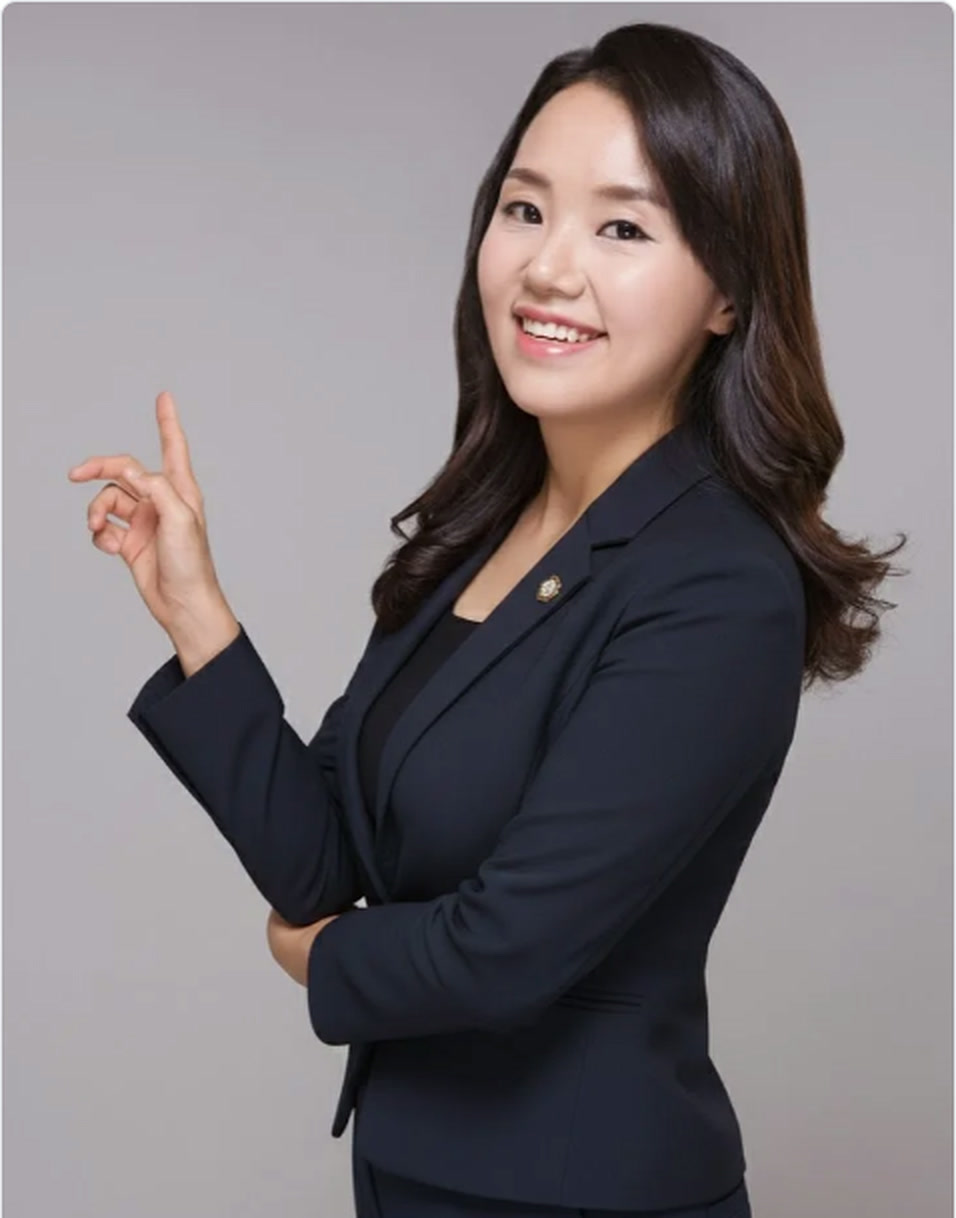
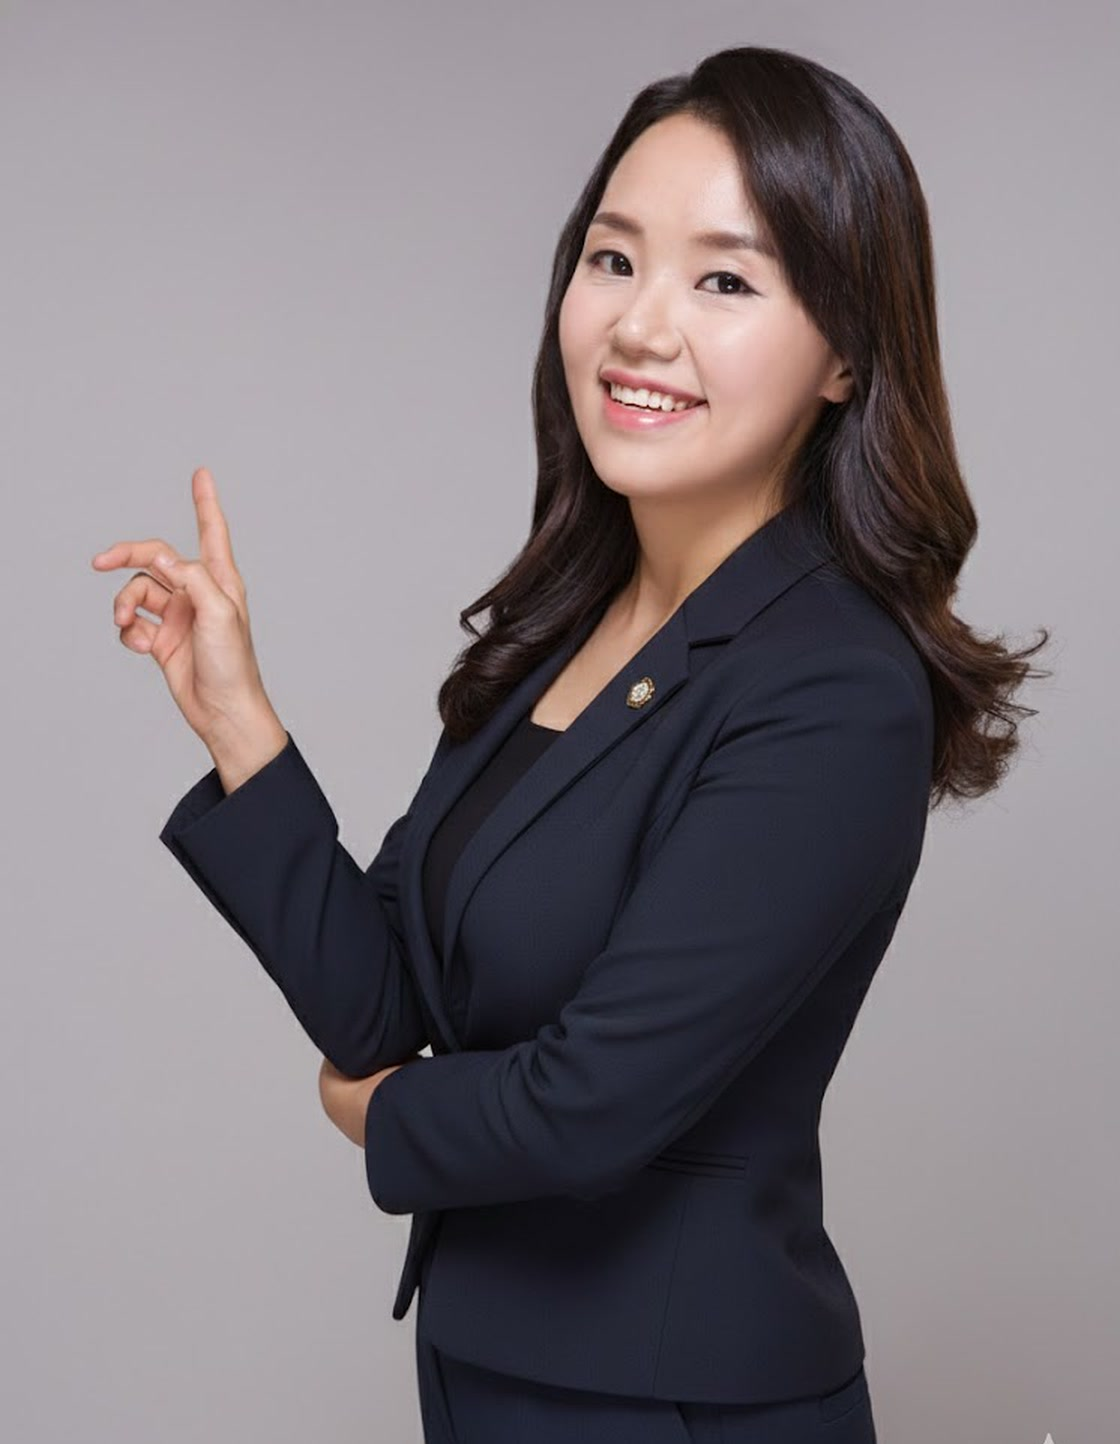
P2 + 카톡 상담: 변호사 실명·약력·고화질 사진 + 카카오톡 채널 연동
- 히어로 인물 카드에 실명 '김창희 변호사 · 법률사무소 청송 대표 · 회생·파산 전문'
- 공식 고화질 프로필(747→1120px, 워터마크 제거)로 attorney.jpg 교체
- 카카오톡 상담 버튼: 히어로(진단시작과 2대 CTA) + 결과 상담폼(전화 대신 카톡) → pf.kakao.com/_zkzIX
- 결과 상담폼에 김창희 변호사 약력(부산지방변호사회 재무이사·동아대 법전원 겸임교수) 신뢰 블록
- 신뢰 카드 '전문 변호사' → '김창희 변호사 직접 상담'

diff --git a/simulation-form.js b/simulation-form.js
@@ -756,12 +756,19 @@ class SimulationForm extends HTMLElement {
                 </div>
                 <div style="background:#f8f9fa; border-radius:10px; padding:1rem; text-align:center;">
                     <div style="margin-bottom:0.4rem; color:#0f5b54; display:flex; justify-content:center;"><svg xmlns="http://www.w3.org/2000/svg" width="24" height="24" viewBox="0 0 24 24" fill="none" stroke="currentColor" stroke-width="1.75" stroke-linecap="round" stroke-linejoin="round"><path d="m16 16 3-8 3 8c-.87.65-1.92 1-3 1s-2.13-.35-3-1Z"/><path d="m2 16 3-8 3 8c-.87.65-1.92 1-3 1s-2.13-.35-3-1Z"/><path d="M7 21h10"/><path d="M12 3v18"/><path d="M3 7h2c2 0 5-1 7-2 2 1 5 2 7 2h2"/></svg></div>
-                    <p style="font-size:0.8rem; color:#555; margin:0;">전문 변호사 직접 상담</p>
+                    <p style="font-size:0.8rem; color:#555; margin:0;">김창희 변호사 직접 상담</p>
                 </div>
             </div>
             <div class="consultation-form" id="consultation-form-section">
                 <h4>전문가 무료 상담 신청 (선택)</h4>
                 <p class="form-desc">상담을 원하시면 아래 정보를 입력해주세요. 입력하지 않아도 진단 결과는 유지됩니다.</p>
+                <div style="display:flex; align-items:center; gap:0.8rem; padding:0.9rem 1rem; background:#fff; border:1px solid #cfe0dc; border-radius:10px; margin-bottom:1.25rem; text-align:left;">
+                    <span style="display:flex; flex-shrink:0; color:#0f5b54;"><svg xmlns="http://www.w3.org/2000/svg" width="22" height="22" viewBox="0 0 24 24" fill="none" stroke="currentColor" stroke-width="1.75" stroke-linecap="round" stroke-linejoin="round"><path d="m16 16 3-8 3 8c-.87.65-1.92 1-3 1s-2.13-.35-3-1Z"/><path d="m2 16 3-8 3 8c-.87.65-1.92 1-3 1s-2.13-.35-3-1Z"/><path d="M7 21h10"/><path d="M12 3v18"/><path d="M3 7h2c2 0 5-1 7-2 2 1 5 2 7 2h2"/></svg></span>
+                    <div>
+                        <p style="font-weight:700; color:#17191d; font-size:0.92rem; margin:0;">담당 김창희 변호사 <span style="font-weight:500; color:#0f5b54;">· 법률사무소 청송 대표</span></p>
+                        <p style="font-size:0.78rem; color:#666; margin:3px 0 0; line-height:1.4;">부산지방변호사회 재무이사 · 동아대 법전원 겸임교수 · 회생·파산 전문</p>
+                    </div>
+                </div>
                 <div style="position:absolute;left:-9999px;"><input type="text" id="website_url" tabindex="-1" autocomplete="off"></div>
                 <p class="question-title" style="font-size:1rem; margin-top:0;">이름</p>
                 <div class="input-group"><input type="text" id="consult_name" placeholder="이름을 입력해주세요"></div>
@@ -786,6 +793,10 @@ class SimulationForm extends HTMLElement {
                 </div>
                 <div class="result-actions">
                     <button id="submit-consultation-btn" class="action-btn">무료 상담 신청하기</button>
+                    <a href="https://pf.kakao.com/_zkzIX/chat" target="_blank" rel="noopener" class="action-btn" style="background:#FEE500; color:#191600; display:flex; align-items:center; justify-content:center; gap:8px;">
+                        <svg viewBox="0 0 24 24" fill="currentColor" style="width:20px;height:20px;"><path d="M12 3C6.5 3 2 6.6 2 11c0 2.8 1.9 5.3 4.7 6.7-.2.7-.7 2.6-.8 3-.1.5.2.5.4.4.3-.2 2.6-1.8 3.6-2.5.7.1 1.4.2 2.1.2 5.5 0 10-3.6 10-8S17.5 3 12 3z"/></svg>
+                        전화 대신 카카오톡으로 상담
+                    </a>
                 </div>
             </div>
             <div class="delete-section">

diff --git a/index.html b/index.html
@@ -401,10 +401,12 @@
                                     <i data-lucide="arrow-right" class="size-5 transition-transform group-hover:translate-x-0.5"></i>
                                 </a>
                             </div>
-                            <a href="#data-sources" class="flex items-center justify-center text-navy-900 hover:bg-navy-900/5 border border-navy-900/15 hover:border-navy-900/30 text-base font-semibold h-[50px] px-6 rounded-xl transition-colors no-underline">
-                                <span class="text-nowrap">계산 근거 보기</span>
+                            <a href="https://pf.kakao.com/_zkzIX/chat" target="_blank" rel="noopener" class="flex items-center justify-center gap-2 bg-[#FEE500] hover:brightness-95 text-[#191600] text-base font-bold h-[52px] px-6 rounded-xl transition no-underline">
+                                <svg viewBox="0 0 24 24" fill="currentColor" class="size-5"><path d="M12 3C6.5 3 2 6.6 2 11c0 2.8 1.9 5.3 4.7 6.7-.2.7-.7 2.6-.8 3-.1.5.2.5.4.4.3-.2 2.6-1.8 3.6-2.5.7.1 1.4.2 2.1.2 5.5 0 10-3.6 10-8S17.5 3 12 3z"/></svg>
+                                <span class="text-nowrap">카카오톡 상담</span>
                             </a>
                         </div>
+                        <a href="#data-sources" class="hero-in hero-in-4 inline-flex items-center gap-1 mt-4 text-sm text-navy-900/60 hover:text-primary font-medium no-underline">계산 근거 보기 →</a>
                         <div class="hero-in hero-in-5 mt-8 flex flex-wrap items-center gap-x-6 gap-y-2 text-sm text-navy-900/55 font-sans">
                             <span class="flex items-center gap-2"><i data-lucide="gavel" class="text-primary size-4"></i>부산회생법원 실무준칙</span>
                             <span class="flex items-center gap-2"><i data-lucide="landmark" class="text-primary size-4"></i>2026 중위소득 고시</span>
@@ -416,14 +418,14 @@
                         <div class="absolute -right-3 -bottom-3 w-full h-full rounded-2xl bg-primary/15"></div>
                         <div class="absolute -left-3 -top-3 size-24 rounded-2xl border border-primary/25"></div>
                         <div class="relative overflow-hidden rounded-2xl border border-navy-900/10 shadow-soft bg-[#e8e6e0]">
-                            <img src="/attorney.jpg" alt="법률사무소 청송 개인회생 전문 변호사" class="w-full h-auto object-cover" width="956" height="1218" loading="eager">
+                            <img src="/attorney.jpg" alt="김창희 변호사 - 법률사무소 청송 대표, 부산 개인회생·파산 전문" class="w-full h-auto object-cover" width="1120" height="1444" loading="eager">
                         </div>
                         <div class="absolute -bottom-4 left-4 bg-white rounded-xl border border-navy-900/10 shadow-soft px-4 py-3 font-sans">
                             <div class="flex items-center gap-2.5">
                                 <i data-lucide="scale" class="text-primary size-5 shrink-0"></i>
                                 <div>
-                                    <p class="text-sm font-bold text-navy-900 leading-tight">법률사무소 청송</p>
-                                    <p class="text-xs text-navy-900/55 leading-tight">부산·울산·경남 개인회생 전문</p>
+                                    <p class="text-sm font-bold text-navy-900 leading-tight">김창희 변호사</p>
+                                    <p class="text-xs text-navy-900/55 leading-tight">법률사무소 청송 대표 · 회생·파산 전문</p>
                                 </div>
                             </div>
                         </div>